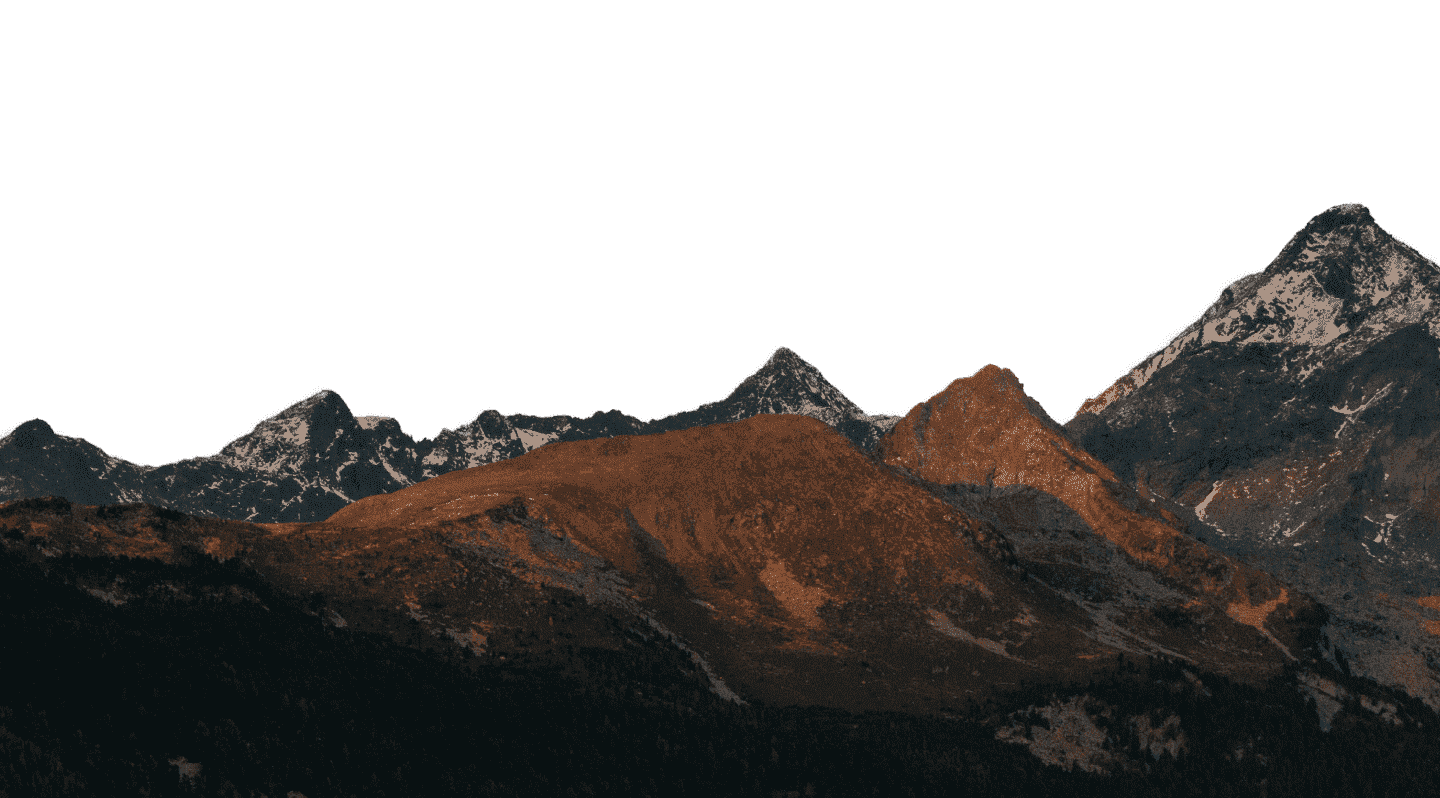
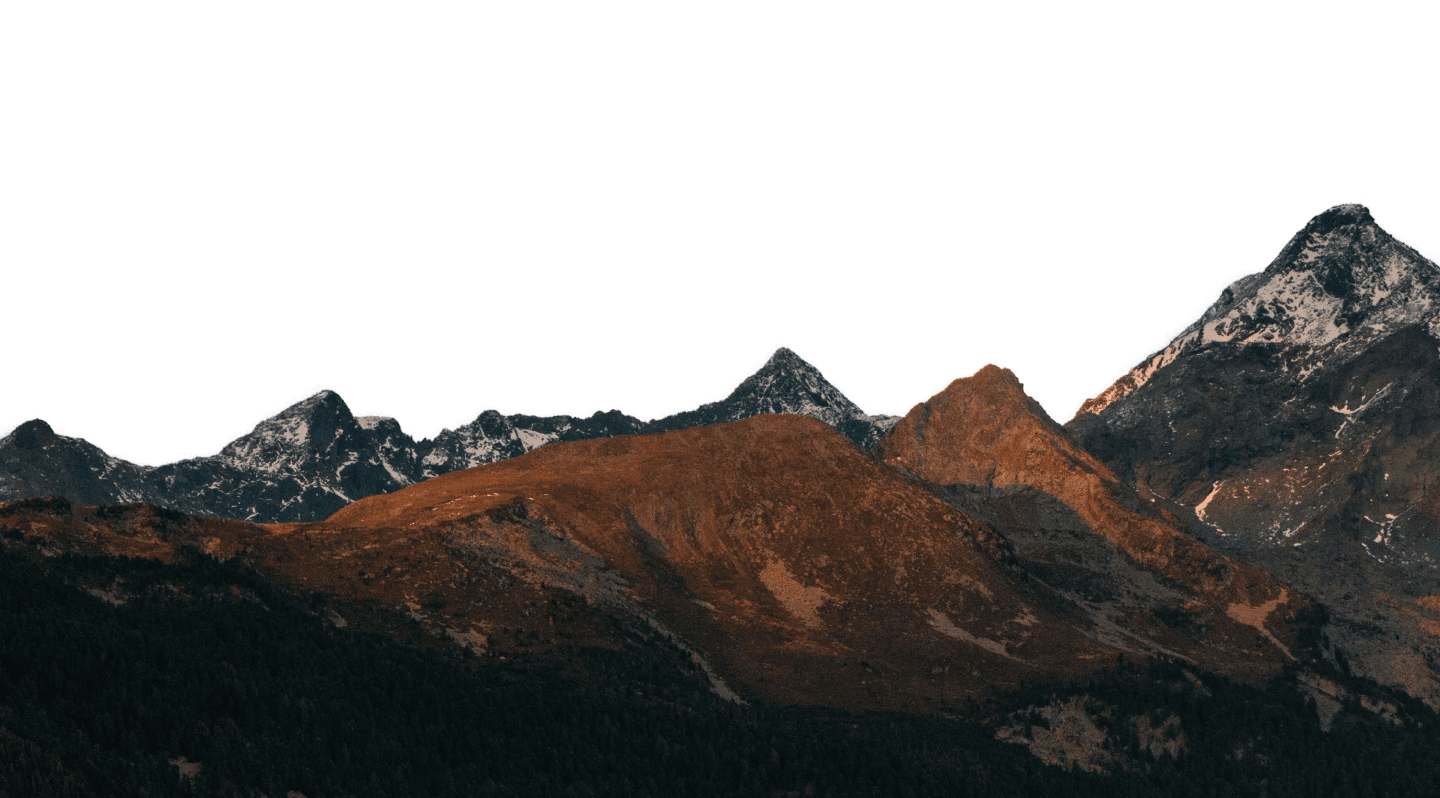
переобжал изображения, добавил прелоад шрифтов

diff --git a/src/js/head-script.js b/src/js/head-script.js
@@ -1,11 +1,5 @@
 document.querySelector('html').classList.remove('no-js');
-function cth(c){document.documentElement.classList.add(c)}
-'ontouchstart' in window?cth('touch'):cth('no-touch');
-if(typeof InstallTrigger!=='undefined')cth('firefox');
-if(/constructor/i.test(window.HTMLElement)||(function(p){return p.toString()==="[object SafariRemoteNotification]"})(!window['safari']||(typeof safari!=='undefined'&&safari.pushNotification)))cth('safari');
-if(/*@cc_on!@*/!!document.documentMode)cth('ie');
-if(!(!!document.documentMode)&&!!window.StyleMedia)cth('edge');
-if(!!window.chrome&&(!!window.chrome.webstore||!!window.chrome.runtime))cth('chrome');
-if(~navigator.appVersion.indexOf("Win"))cth('windows');
-if(~navigator.appVersion.indexOf("Mac"))cth('osx');
-if(~navigator.appVersion.indexOf("Linux"))cth('linux');
+if (/Safari/.test(navigator.userAgent) && /Apple Computer/.test(navigator.vendor)) {
+  document.querySelector('html').classList.remove('webp');
+  document.querySelector('html').classList.add('no-webp');
+}

diff --git a/src/js/script.js b/src/js/script.js
@@ -1,16 +1,20 @@
+'use strict';
 /* eslint-disable no-undef */
-const ready = require('./utils/documentReady.js');
-
-ready(function(){
-  const ready = require('./utils/documentReady.js');
-
-  ready(function(){
-    if (/Safari/.test(navigator.userAgent) && /Apple Computer/.test(navigator.vendor)) {
-      document.querySelector('body').classList.remove('webp');
-      document.querySelector('body').classList.add('no-webp');
-    }
-  });
-});
+// const ready = require('./utils/documentReady.js');
+//
+// ready(function(){
+//   const ready = require('./utils/documentReady.js');
+//
+//   ready(function(){
+//
+//   });
+// });
 
 // const $ = require('jquery');
 // $( document ).ready(function() {});
+
+document.querySelector('html').classList.remove('no-js');
+if (/Safari/.test(navigator.userAgent) && /Apple Computer/.test(navigator.vendor)) {
+  document.querySelector('html').classList.remove('webp');
+  document.querySelector('html').classList.add('no-webp');
+}
